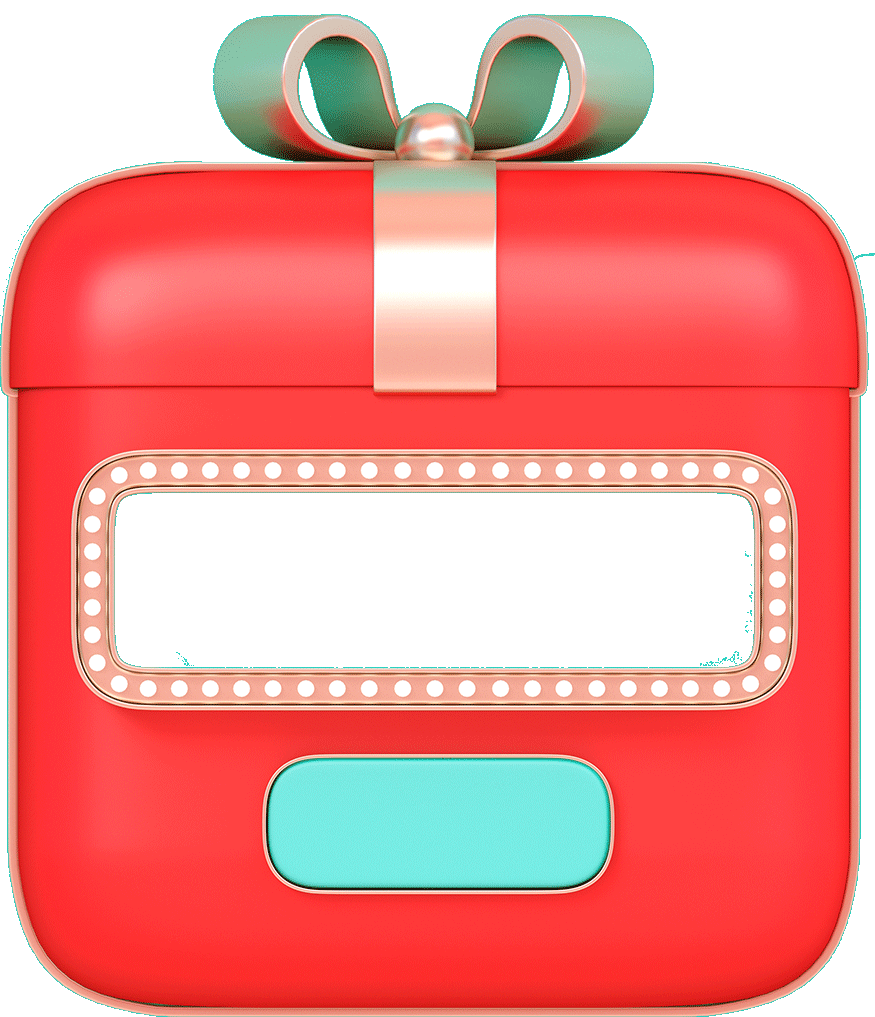
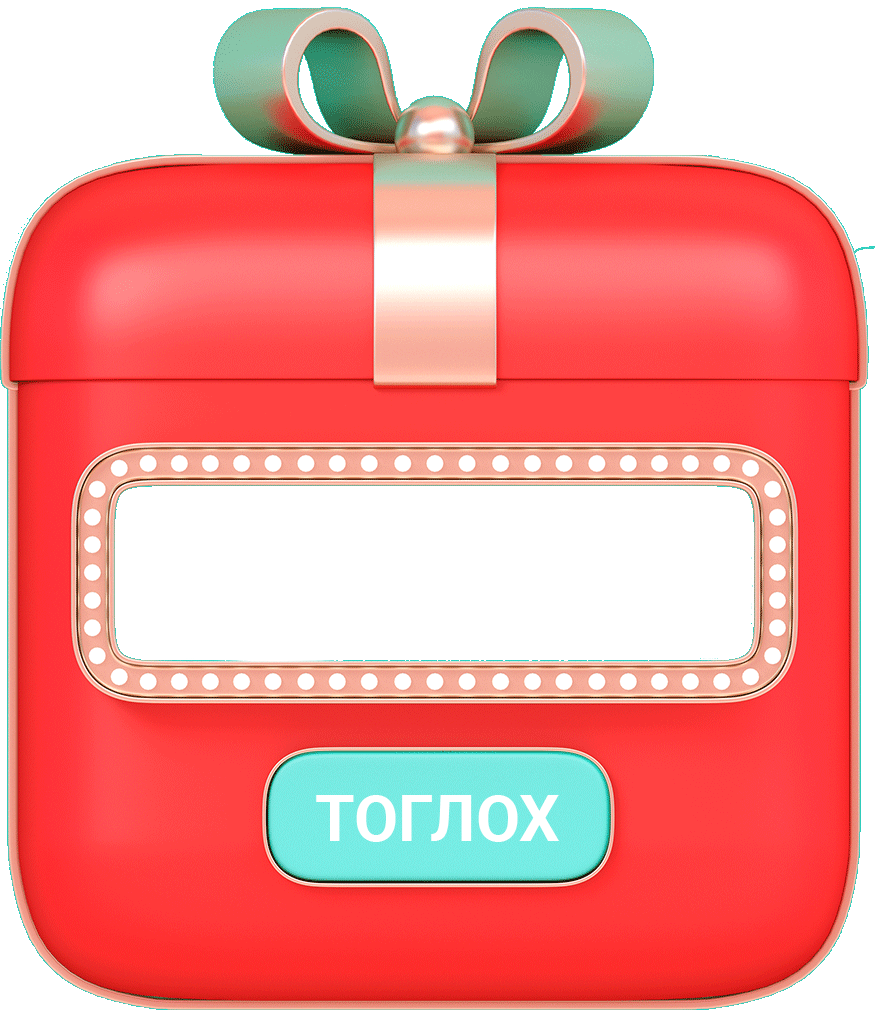
fixed responsive iPhone6,7,8

diff --git a/src/pages/Slot/Slot.js b/src/pages/Slot/Slot.js
@@ -161,66 +161,57 @@ useEffect(() => {
     </div>
   </div> :
     <div style={{ backgroundImage: `url(${back})`, backgroundSize: 'cover', backgroundRepeat: 'no-repeat', backgroundPosition: 'center' }} className="w-full flex flex-col justify-between h-screen">
+      <div className=" overflow-y-scroll h-screen">
       <div>
         <div className='flex flex-col relative justify-center items-center pt-5'>
           <img className=' max-w-[160px]' alt="gifts" src={gifts} />
-          <img alt="icons" className="max-w-[250px] tablet:max-w-[260px] iPhone-12:max-w-[290px] absolute top-[105px] z-20" src={gift} />
+          <img onClick={handleSubmit} alt="icons" className={`${!loading ? "roll rolling" : "roll"} max-w-[250px] tablet:max-w-[260px] iPhone-8:max-w-[210px] iPhone-12:max-w-[290px] absolute top-[105px] z-20`} src={gift} />
         </div>
         <div className="relative">
-          <div className="absolute  top-[93px] tablet:top-[115px] w-full flex justify-center items-center">
-            <div className="flex justify-center items-center w-[60%] tablet:w-[58%] boxer bg-white h-32">
+          <div className="absolute  top-[117px] iPhone-8:top-[95px] tablet:top-[115px] w-full flex justify-center items-center">
+            <div className="flex justify-between items-center w-[60%] iPhone-8:w-[48%] tablet:w-[58%] boxer bg-white h-32 iPhone-8:h-24">
               <div className="slot">
                 <section>
                   <div className={loading ? "containers" : 'containers containerStop'} ref={slotRef[0]}>
                     {defaultProps.Dummy.map((item, idx) => (
                       <div className="flex justify-center items-center" key={idx}>
                         <div className="flex justify-center items-center">
-                          <img alt="icons" className="w-[45px] tablet:w-[55px]" src={item.image} />
+                          <img alt="icons" className="w-[45px] tablet:w-[55px] iPhone-8:w-[45px]" src={item.image} />
                         </div>
                       </div>
                     ))}
                   </div>
                 </section>
               </div>
-              <div className="absolute left-[155px] bottom-16 h-10 border-[0.5px] ml-1 flex justify-center items-center" />
-              <div className="slot">
+              {/* <div className="absolute left-[147px] tablet:left-[155px] bottom-[73px] tablet:bottom-16 h-10 border-[0.5px] ml-1 flex justify-center items-center" /> */}
+              <div className="slot ml-[12px]">
                 <section>
                   <div className={loading ? "containers" : 'containers containerStop'} ref={slotRef[1]}>
                     {defaultProps.Dummy.map((item, key) => (
                       <div key={key}>
-                        <img alt="icons" src={item.image} className="w-[45px] tablet:w-[55px]" />
+                        <img alt="icons" src={item.image} className="w-[45px] tablet:w-[55px] iPhone-8:w-[45px]" />
                       </div>
                     ))}
                   </div>
                 </section>
               </div>
-              <div className="absolute right-[155px] bottom-16 h-10 border-[0.5px] ml-1 flex justify-center items-center" />
+              {/* <div className="absolute right-[155px] tablet:right-[155px] bottom-[73px] tablet:bottom-16 h-10 border-[0.5px] ml-1 flex justify-center items-center" /> */}
               <div className="slot">
-                <section>
+                <section className="">
                   <div className={loading ? "containers" : 'containers containerStop'} ref={slotRef[2]}>
                     {defaultProps.Dummy.map((item, key) => (
                       <div key={key}>
-                        <img alt="icons" src={item.image} className="w-[45px] tablet:w-[55px]" />
+                        <img alt="icons" src={item.image} className="w-[45px] tablet:w-[55px] iPhone-8:w-[45px]" />
                       </div>
                     ))}
                   </div>
                 </section>
               </div>
-            </div>
-          </div>
-          <div className="flex justify-center items-center">
-            
-            <div className={`${!loading ? "roll rolling" : "roll"} absolute cursor-pointer text-white top-[175px] tablet:top-[205px] z-30 flex justify-center items-center text-center w-[104px] tablet:w-[119px] h-12 tablet:h-[50px]`}
-              onClick={handleSubmit}
-            >
-              <p className=" font-bold">
-                тоглох
-              </p>
             </div>
           </div>
         </div>
       </div>
-      <div className="flex flex-col justify-end mx-4 mt-44">
+      <div className="flex flex-col justify-end mx-4 tablet:mt-32 mt-44 iPhone-8:mt-56">
         <div className="flex justify-between items-center w-full bg-white rounded-md">
           <div className=' bg-white rounded-tl-md flex flex-col justify-between items-center rounded-bl-md w-[70%] p-2'>
               <div className='flex justify-between text-black w-full'>
@@ -247,7 +238,7 @@ useEffect(() => {
               <p className="text-right font-semibold text-base">{data?.family?.total}</p>
           </div>
         </div>
-        <div className='w-full h-[13%] tablet:h-[70%] overflow-y-scroll text-white pt-3 px-1'>
+        <div className='w-full h-[13%] iPhone-8:h-[100%] tablet:h-full overflow-y-scroll text-white pt-3 px-1'>
           {
             data.detail?.map((item , key) => {
               return(
@@ -261,6 +252,7 @@ useEffect(() => {
             })
           }
         </div>  
+      </div>
       </div>
       <Footer />
     </div>

diff --git a/src/pages/Prize/Prize.js b/src/pages/Prize/Prize.js
@@ -74,23 +74,25 @@ const Prize = (sessionId) => {
   ]
 
   return (
-    <div style={{ backgroundImage: `url(${back})`, backgroundSize: 'cover', backgroundRepeat: 'no-repeat', backgroundPosition: 'center' }} className=' h-screen flex flex-col justify-center items-center'>
-        <div>
-          <h1 className='text-white text-xl mt-2'>• СУПЕР 10 ШАГНАЛ •</h1>
-        </div>
-        <div className=' overflow-y-scroll h-[640px]'>
-          {
-            Gift.map((item, idx) => {
-              return(
-                <div key={idx} style={{ backgroundImage: `url(${d})`, backgroundSize: 'cover', backgroundRepeat: 'no-repeat', backgroundPosition: 'center' }} className='px-2 h-80 flex flex-col text-white justify-center items-center mt-2 text-center w-[350px] rounded-xl'>
-                  <p>{item.iphone}</p>
-                  <p>{item.mac}</p>
-                  <p>{item.pod}</p>
-                  <p>{item.pad}</p>
-                </div>
-              )
-            })
-          }
+    <div style={{ backgroundImage: `url(${back})`, backgroundSize: 'cover', backgroundRepeat: 'no-repeat', backgroundPosition: 'center' }} className='h-screen flex flex-col justify-between items-center'>
+        <div className='overflow-y-scroll'>
+          <div>
+            <h1 className='text-white text-xl mt-2'>• СУПЕР 10 ШАГНАЛ •</h1>
+          </div>
+          <div className='h-[670px]'>
+            {
+              Gift.map((item, idx) => {
+                return(
+                  <div key={idx} style={{ backgroundImage: `url(${d})`, backgroundSize: 'cover', backgroundRepeat: 'no-repeat', backgroundPosition: 'center' }} className='px-2 h-80 flex flex-col text-white justify-center items-center mt-2 text-center w-[350px] rounded-xl'>
+                    <p>{item.iphone}</p>
+                    <p>{item.mac}</p>
+                    <p>{item.pod}</p>
+                    <p>{item.pad}</p>
+                  </div>
+                )
+              })
+            }
+          </div>
         </div>
       <Footer />
     </div>

diff --git a/src/pages/Rule/Rule.js b/src/pages/Rule/Rule.js
@@ -11,11 +11,12 @@ function Rule(sessionId) {
 }, [sessionId])
 
   return (
-    <div style={{ backgroundImage: `url(${back})`, backgroundSize: 'cover', backgroundRepeat: 'no-repeat', backgroundPosition: 'center' }} className='mx-auto h-screen flex flex-col justify-between w-full overflow-x-hidden overflow-y-scroll'>
+    <div style={{ backgroundImage: `url(${back})`, backgroundSize: 'cover', backgroundRepeat: 'no-repeat', backgroundPosition: 'center' }} className='mx-auto h-screen flex flex-col justify-between w-full'>
+        <div className='overflow-y-scroll'>
         <div className='flex justify-center items-center pt-3'>
             <h1 className='w-[65%] text-center text-white text-xl'>ХАМГИЙН ГОЁ БЭЛЭГ УРАМШУУЛЛЫН ДҮРЭМ</h1>
         </div>
-        <div className='text-white mt-4 px-8 w-full text-sm pb-3'>
+        <div className='text-white px-8 w-full text-sm pt-5'>
             <ul className='w-full text-left'>
                 <li className='flex items-center justify-between'>
                     <h1 className='flex items-center justify-center'>1. Жаргалтай гэр бүлийн админ болоод гишүүд тоглох боломжтой</h1>
@@ -52,7 +53,7 @@ function Rule(sessionId) {
                 </li>
             </ul>
             <h1 className='mt-5 text-left'>Жишээ нь: 4 гишүүнтэй гэр бүл Санта буух магадлал 34%Олаф буух магадлал 40% Гринч буух магадлал 26%</h1>
-            
+            </div>
         </div>
         <Footer />
     </div>

diff --git a/src/pages/Detail/Component/Edit.js b/src/pages/Detail/Component/Edit.js
@@ -152,11 +152,11 @@ const Edit = ({data, fetchData, sessionId}) => {
                     })
                 }
             </div>
-        <div className='flex flex-col px-2 mt-5 justify-start'>
+        <div className='flex flex-col px-2 mt-2 justify-start'>
             <p className='text-left text-white'>Зураг сонгох</p>
             <div className='border-b border-white pb-3 w-[90%]' />
         </div>
-            <div className='flex flex-wrap flex-row justify-center mt-5 items-center px-2 w-full'>
+            <div className='flex flex-wrap flex-row justify-center mt-2 items-center px-2 w-full'>
                 {
                     imgData.map((item, idx) => {
                         return(
@@ -171,7 +171,7 @@ const Edit = ({data, fetchData, sessionId}) => {
                 }
             </div>
         </div>
-        <div className='flex justify-center items-center'>
+        <div className='flex justify-center items-center py-2'>
             <div className='bg-red-500 text-white w-[60%] p-3 rounded-md flex justify-center items-center' onClick={() => handleSubmit()}>
                 Хадгалах
             </div>

diff --git a/tailwind.config.js b/tailwind.config.js
@@ -11,7 +11,11 @@ module.exports = {
       },
       screens : {
         'tablet': '380px',
-        'iPhone-12' : '405px'
+        'iPhone-12' : '405px',
+        'iPhone-8' : '350px',
+        'iPhone-8-plus': '410px',
+        'iPhone-12-plus': '415px',
+        'iPad' : '780px'
       }
     },
   },

diff --git a/src/pages/Slot/Slot.css b/src/pages/Slot/Slot.css
@@ -30,7 +30,7 @@ section {
 
 .containers {
   position: absolute;
-  left: 10px;
+  /* left: 10px; */
   width: 100%;
   transition: top ease-in-out 3s;
   animation: top 0.9s linear infinite;
